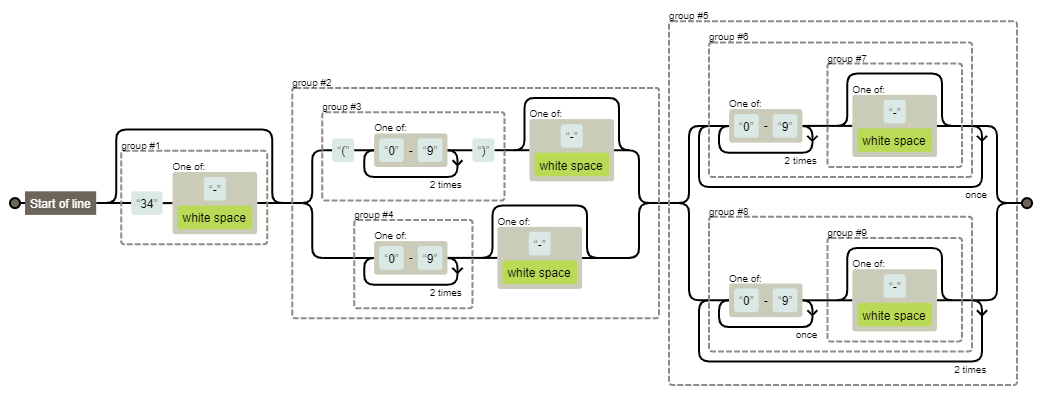
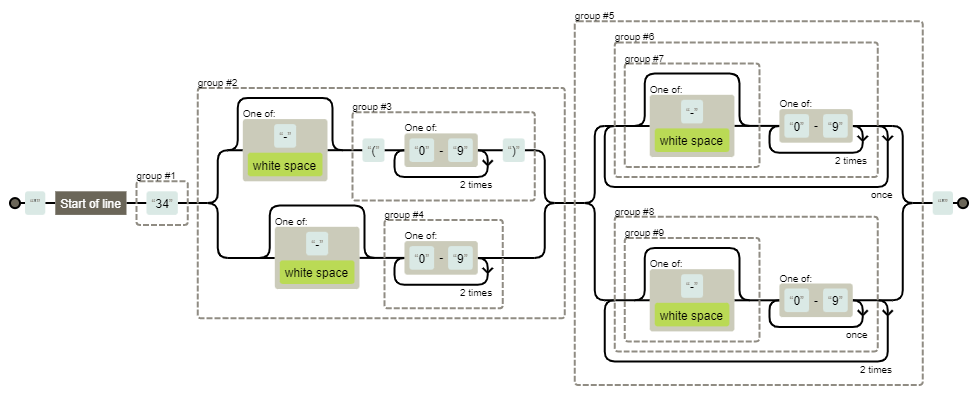
final regex changes

diff --git a/src/phone_validator.py b/src/phone_validator.py
@@ -17,16 +17,16 @@ def phone_validator(phone_number: str) -> bool:
     :return: True if the phone number is valid, False otherwise.
     """
 
-    # Optional starting whit 34 followed by space or -
-    regex_starting_34 = r"^(34[-\s])?"
+    # Optional starting whit 34
+    regex_starting_34 = r"^(34)?"
 
-    # first 3 digits with or without parenthesis followed by space or -
-    regex_first_group_with_parenthesis = r"(\([0-9]{3}\))[-\s]?"
-    regex_first_group_without_parenthesis = r"([0-9]{3})[-\s]?"
+    # first 3 digits with or without parenthesis. It can start with space or -
+    regex_first_group_with_parenthesis = r"[-\s]?(\([0-9]{3}\))"
+    regex_first_group_without_parenthesis = r"[-\s]?([0-9]{3})"
 
     # Remaining digits grouped by 3 or 2 separated by space, - or without separator
-    other_digits_grouped_by_3 = r"([0-9]{3}([-\s]?)){2}"
-    other_digits_grouped_by_2 = r"([0-9]{2}([-\s]?)){3}"
+    other_digits_grouped_by_3 = r"(([-\s]?)[0-9]{3}){2}$"
+    other_digits_grouped_by_2 = r"(([-\s]?)[0-9]{2}){3}$"
 
     regex = (
         f"{regex_starting_34}"

diff --git a/readme.md b/readme.md
@@ -18,18 +18,19 @@ Para este desafío se te presentará una cadena como 972355567 o 8oo-six427676;l
 ## Solución
 Se ha implementado una función que valida un número de teléfono español a partir de expresiones regulares.
 La expresión regula evalúa:
-1. (opcional) El numero empieza por 34 y puede seguir un espacio o un - | group#1
-2. El numero tiene 3 primeros digitos que pueden estar entre parentesis o no. Después puede venir seguido de un espacio, - o nada | group#2
+1. (opcional) El numero empieza por 34| group#1
+2. El numero tiene 3 primeros digitos que pueden estar entre parentesis o no.  Puede venir seguido o precedido por un espacio, - o nada | group#2
 3. Todos los digitos restantes pueden venir seguidos, en grupos de 2 o en grupos de 3. En caso de venir en grupos irían separados por un espacio o un - | group#5
 
-```^(34[-\s])?((\([0-9]{3}\))[-\s]?|([0-9]{3})[-\s]?)(([0-9]{3}([-\s]?)){2}|([0-9]{2}([-\s]?)){3})```
+```^(34)([-\s]?(\([0-9]{3}\))|[-\s]?([0-9]{3}))((([-\s]?)[0-9]{3}){2}$|(([-\s]?)[0-9]{2}){3}$)```
 ![Expresión regular](img/image.png)
 
-Para comprobar que funciona bien en todos los casos propuestos se ha implementado una batería de tests.
+
 
 ## Cómo probar el código
+Para comprobar que funciona bien en todos los casos propuestos se ha implementado una batería de tests con Pytest
 
-Para preparar en entorno ejecutar el siguiente comando:
+Para preparar el entorno ejecutar el siguiente comando:
 
 ```bash
 conda env create -f env.yaml
@@ -41,4 +42,5 @@ Para ejecutar los tests ejecutar el siguiente comando:
 ```bash
 pytest -v
 ```
+El resultado de los tests se puede ver en la captura siguiente
 ![Expresión regular](img/test.png)
